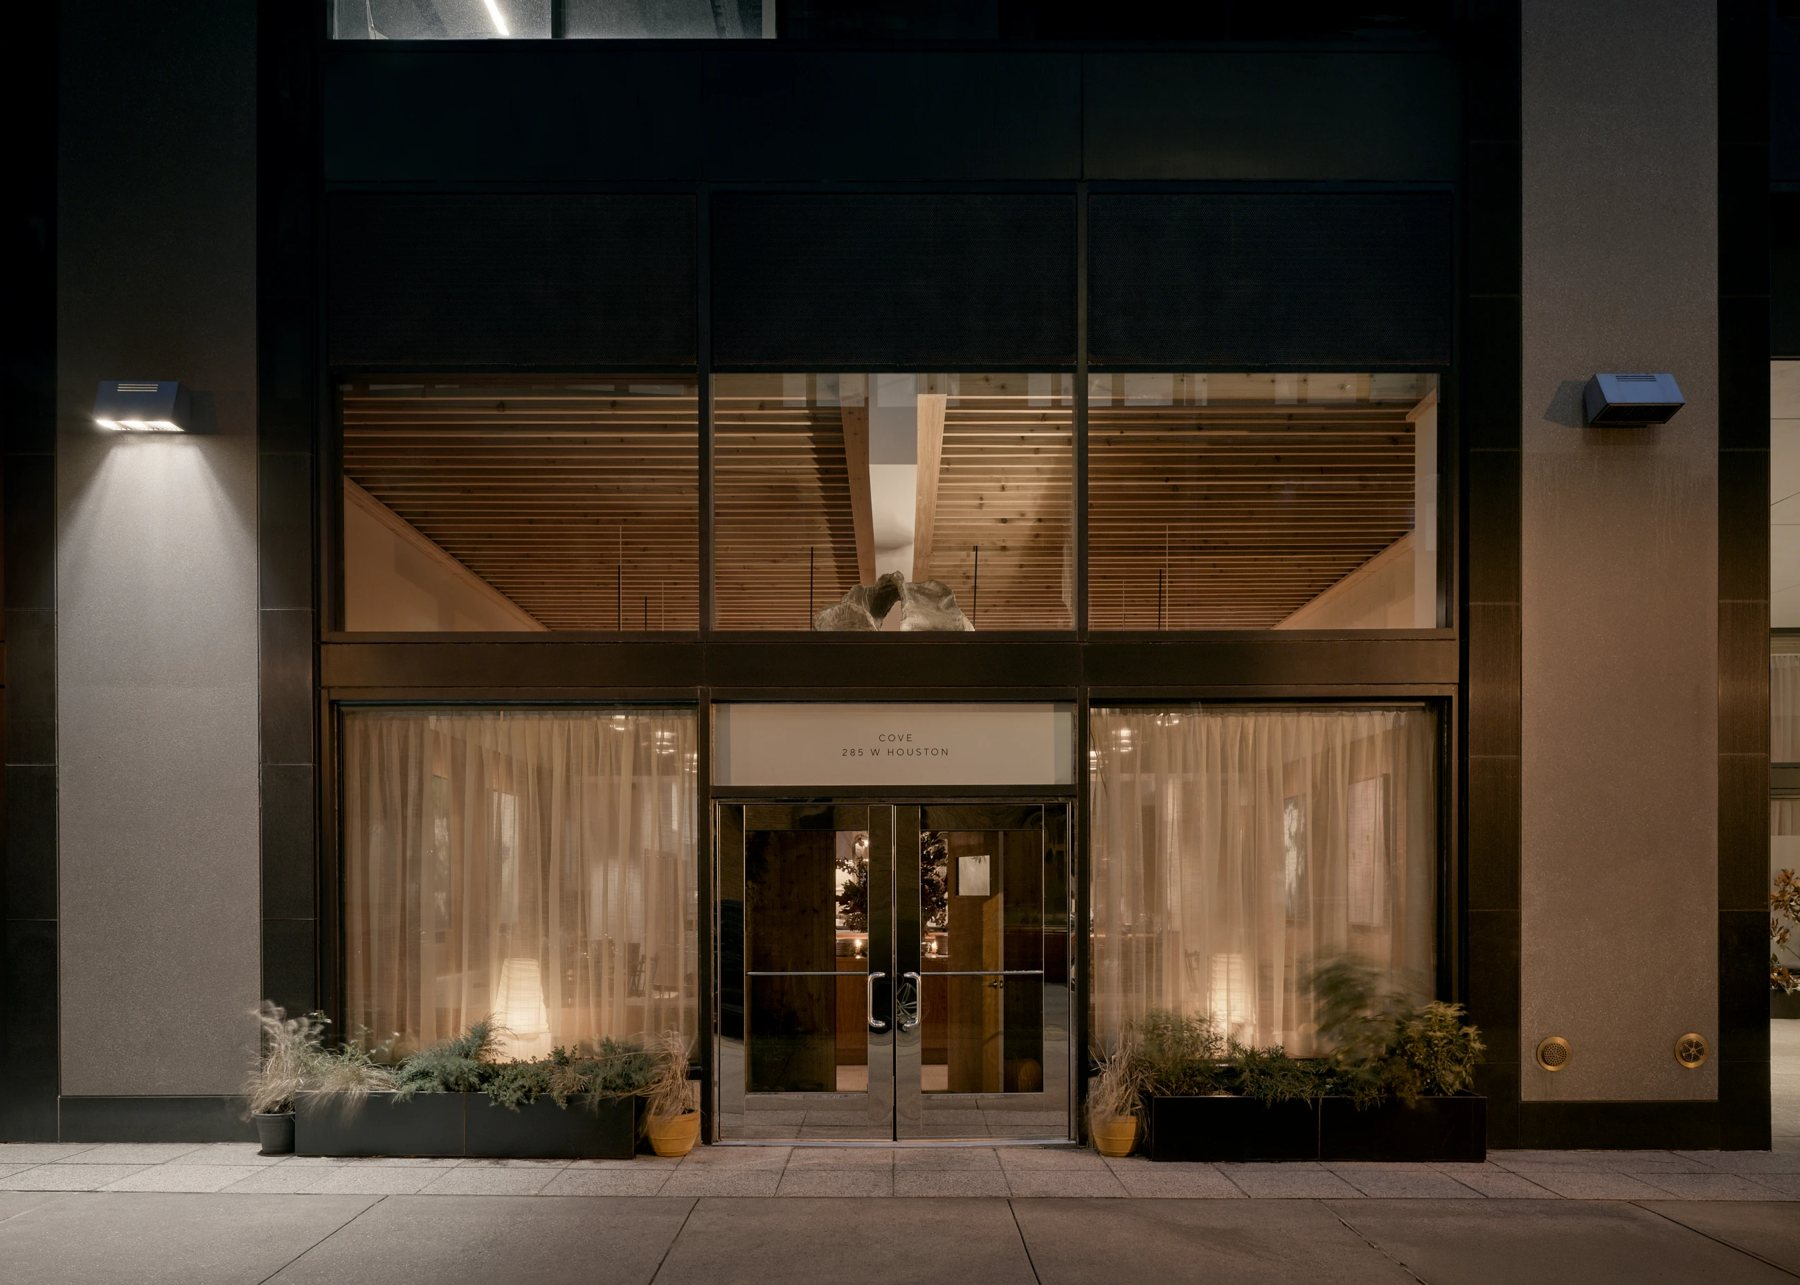
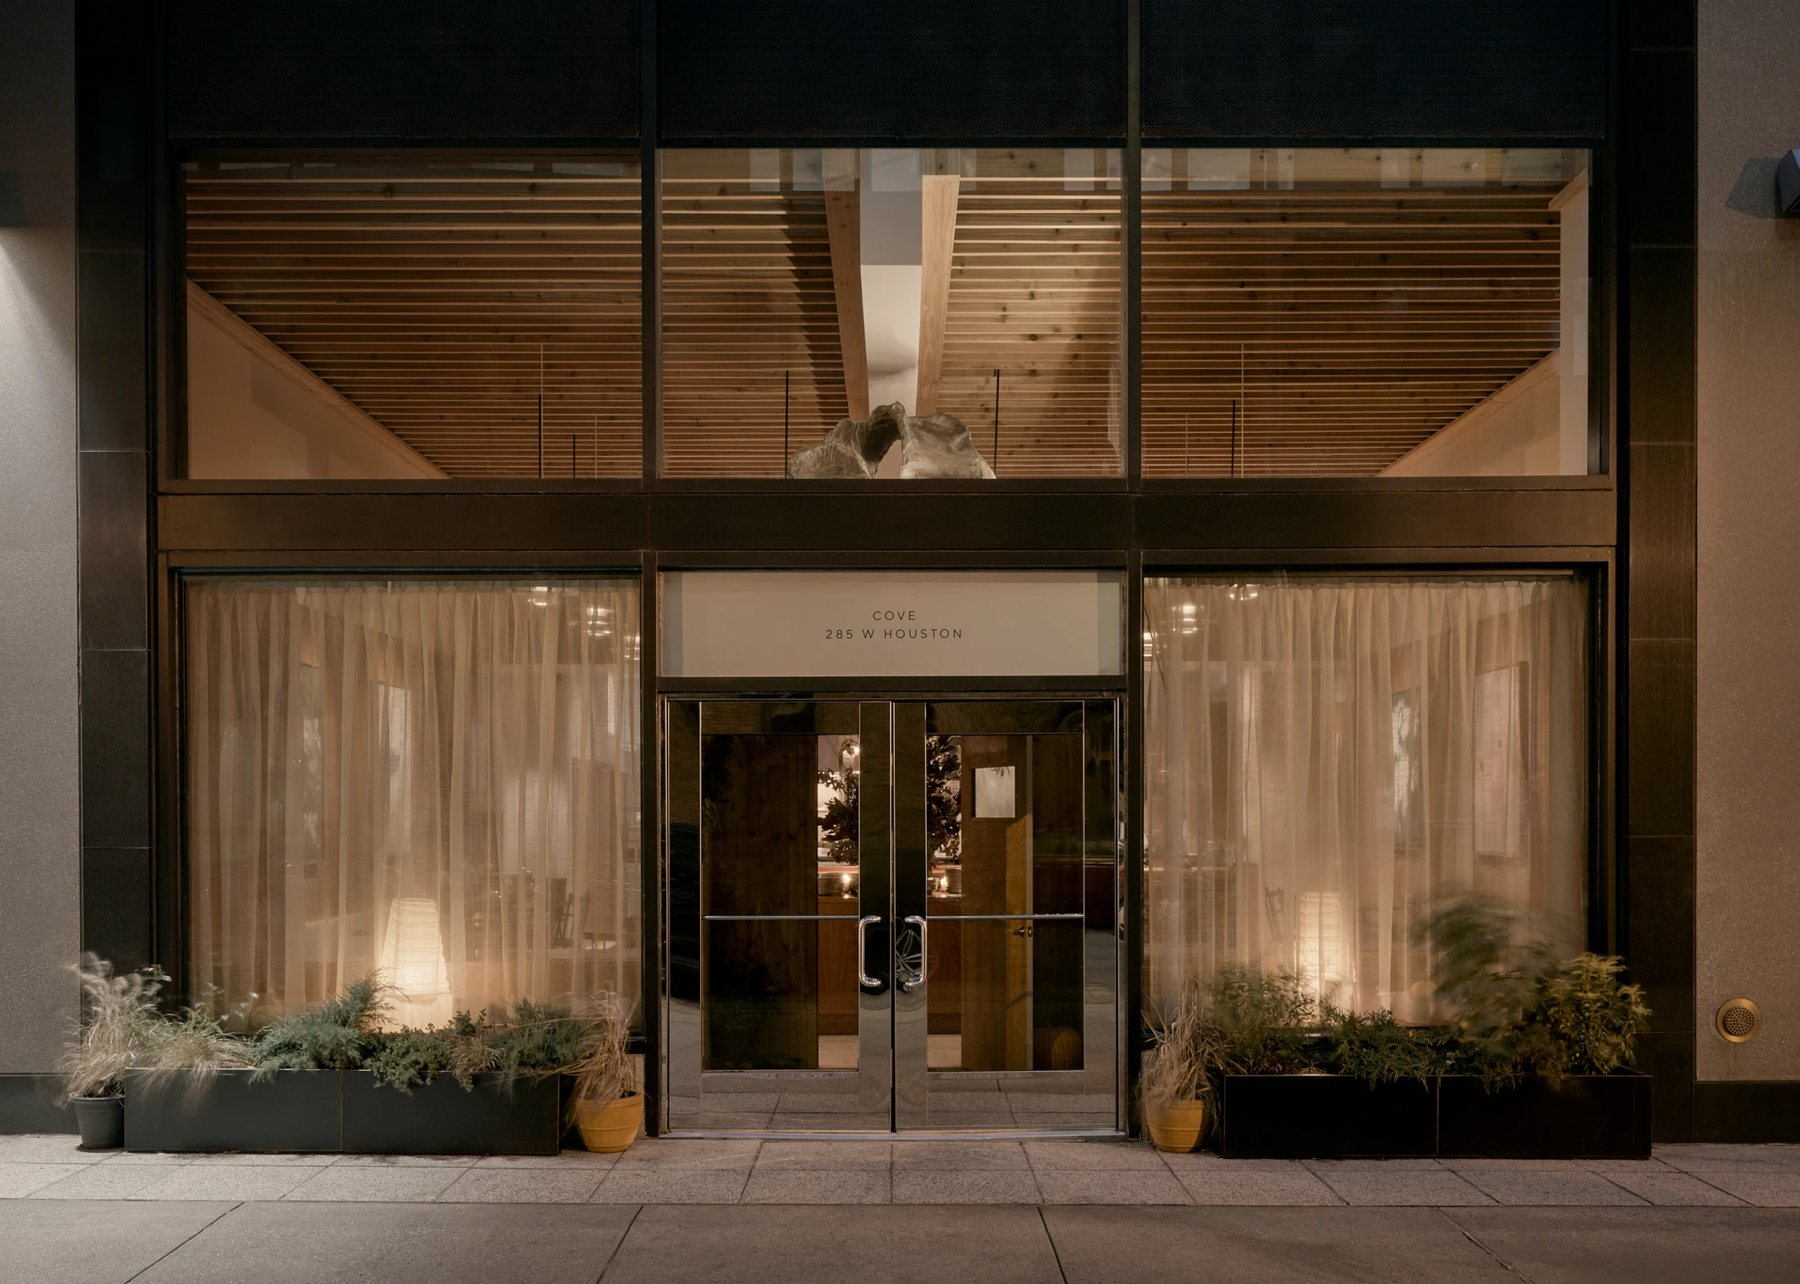
270 Hennepin 2.0: opportunities copy, The Vibe pages and before/after renders
Let's Go summary and opportunities, mood board title and copy, new Invite,
Sky Deck, Conservatory, Cowork and Sky Lounge pages, Fitness and Lobby Lounge
renders, Theatre removed.

Claude-Session: https://claude.ai/code/session_01N4SV5PX1qoQcVKppkaUprV

diff --git a/270-hennepin-v2/index.html b/270-hennepin-v2/index.html
@@ -246,6 +246,7 @@
     .block .pl-line{font-size:17px;font-style:italic;color:var(--accent-dark);margin-bottom:14px;}
     .block .pl-list{list-style:none;margin:0 0 18px;}
     .block .pl-list li{position:relative;padding-left:18px;margin-bottom:9px;font-size:14.5px;line-height:1.45;}
+    .block .pl-list li b{font-weight:500;}
     .block .pl-list li::before{content:"—";position:absolute;left:0;color:var(--accent-dark);}
     .block .pl-sub{font-size:13.5px;opacity:.75;}
     .block .pl-sub b{font-weight:500;color:var(--ink);}
@@ -684,6 +685,7 @@
     .ba-six .ba-sm{aspect-ratio:3/4;}
     .ba-six .ba-sm:nth-child(1){grid-column:1;grid-row:1}.ba-six .ba-sm:nth-child(2){grid-column:2;grid-row:1}.ba-six .ba-sm:nth-child(3){grid-column:1;grid-row:2}.ba-six .ba-sm:nth-child(4){grid-column:2;grid-row:2}
     .ba-six .ba-big img{position:absolute;inset:0;}
+    .ba-six.ba-five{grid-template-columns:.75fr .75fr 4fr;}
     @media(max-width:860px){.ba-six{grid-template-columns:1fr 1fr;}.ba-six .ba-big{grid-column:auto!important;grid-row:auto!important;aspect-ratio:3/4;}}
     .ba-col{display:flex;flex-direction:column;gap:16px;}
     .ba-col .ig-tile{aspect-ratio:16/9;}
@@ -1054,24 +1056,25 @@
   <section class="section-white info" id="pod" style="min-height:100vh;display:flex;align-items:center">
     <div class="container">
       <div class="info-head">
-        <div><p class="eyebrow">The Quick Take</p><h2 class="section-title" style="max-width:44ch;font-size:clamp(22px,2.6vw,36px)">From the street, 270 Hennepin goes unnoticed. Inside, the spaces are nicely done, but they don't feel cheap, they just don't feel anything.</h2></div>
+        <div><p class="eyebrow">OK, Let's Go.</p><h2 class="section-title" style="max-width:44ch;font-size:clamp(22px,2.6vw,36px)">From the street, to the entry, to the spaces... the building is <em>nice but unnoticed</em>. Everything is new, nice and polished. It doesn't feel dated, off trend or cheap. <em>It just doesn't feel, anything.</em><br><br>The opportunity, as we know, is to give it a story – physical to mood – that writes a script, dresses it in a look and creates a feel.</h2></div>
       </div>
       <p class="b-label" style="margin-top:clamp(56px,7vw,100px)">Opportunities</p>
       <div class="pod" style="margin-top:20px">
         <div class="block">
           <ul class="pl-list">
-            <li>Opportunity 1 · to be written</li>
-            <li>Opportunity 2 · to be written</li>
-            <li>Opportunity 3 · to be written</li>
-            <li>Opportunity 4 · to be written</li>
+            <li><b>Street presence.</b> Announcing the building. A residence, for rent, available now, how to reach us. Signage that says here we are. Hello!</li>
+            <li><b>Sense of arrival.</b> Organic planting, vibrancy, bikes at the door and hospitality cues that call attention from the street.</li>
+            <li><b>The entry is chapter one.</b> A first impression that welcomes and sets the tone.</li>
+            <li><b>A lobby that's lived in.</b> The greeting, the scent, the sound, a coffee, a soft recline, other people and a reason to stay.</li>
+            <li><b>Amenities with a point of view.</b> Venture on and the style carries with you. One floor, everything on it. Pool, fitness and lounges styled as moments, not checklists.</li>
           </ul>
         </div>
         <div class="block">
           <ul class="pl-list">
-            <li>Opportunity 5 · to be written</li>
-            <li>Opportunity 6 · to be written</li>
-            <li>Opportunity 7 · to be written</li>
-            <li>Opportunity 8 · to be written</li>
+            <li><b>The details.</b> The sounds, the scents, the nuances. Books on the shelves, art in the hallway, games on the table. A night at the Marriott, or my home?</li>
+            <li><b>A material story.</b> Warm oak, linen, thick rugs, barefoot feels, soft seating, candles and vibe lighting, Nordic roots made modern.</li>
+            <li><b>Echoed in sound.</b> From a background playlist to a vinyl lounge, proper speakers that are seen as well as heard, and a B&amp;O soundbath in the yoga studio.</li>
+            <li><b>Considered art.</b> Framed photos, where the frames matter equally. Discreet but intentional pieces, many small but composed moments, authored and signed. Larger installations in larger spaces, like the garage.</li>
           </ul>
         </div>
       </div>
@@ -1101,8 +1104,8 @@
   <section class="section-black info instig" id="mood-board">
     <div class="container">
       <div class="info-head">
-        <div><p class="eyebrow">Concept 01 · Mood Board</p><h2 class="section-title">Design, Hygge, Furniture, Accents</h2></div>
-        <p class="lede">The material and mood world of the concept, on one page.</p>
+        <div><p class="eyebrow">Concept 01 · The Vibe</p><h2 class="section-title">Nordic Modern,<br>City Meets Hygge</h2></div>
+        <p class="lede">The Scandi influence of clean lines and calm moods. Natural woods and fabrics, warm light and soft layers. Modern yet welcoming, focused on small moments and thoughtful gatherings.</p>
       </div>
       <div class="ig-jrow" style="margin-top:72px">
         <div class="ig-tile" style="flex:1.333 1 0;aspect-ratio:1.333"><img src="assets/mood-09.jpg" alt=""><div class="brief">Mood · 09</div></div>
@@ -1127,7 +1130,7 @@
       <div class="ig-jrow">
         <div class="ig-tile" style="flex:1.0 1 0;aspect-ratio:1.0"><img src="assets/mood-15.jpg" alt=""><div class="brief">Mood · 15</div></div>
         <div class="ig-tile" style="flex:0.803 1 0;aspect-ratio:0.803"><img src="assets/mood-18.jpg" alt=""><div class="brief">Mood · 18</div></div>
-        <div class="ig-tile" style="flex:0.88 1 0;aspect-ratio:0.88"><img src="assets/mood-17.jpg" alt=""><div class="brief">Mood · 17</div></div>
+        <div class="ig-tile" style="flex:0.749 1 0;aspect-ratio:0.749"><img src="assets/mood-19.jpg" alt=""><div class="brief">Mood · 19</div></div>
         <div class="ig-tile" style="flex:1.0 1 0;aspect-ratio:1.0"><img src="assets/mood-16.jpg" alt=""><div class="brief">Mood · 16</div></div>
       </div>
     </div>
@@ -1140,8 +1143,7 @@
   <section class="section-black info instig" id="render-entry">
     <div class="container">
       <div class="info-head">
-        <div><p class="eyebrow">Rendered Spaces · 01</p><h2 class="section-title">The Entry</h2></div>
-        <p class="lede">Description to come.</p>
+        <div><p class="eyebrow">Concept 01 · The Vibe</p><h2 class="section-title">The Entry</h2></div>
       </div>
       <div class="ba-quad">
         <div class="ba-col">
@@ -1155,12 +1157,32 @@
   </section>
 
   <div class="gold-rule" style="padding:0"><div class="container"><span class="gr-line"></span></div></div>
+  <!-- ============================ RENDERED SPACE INVITE ============================ -->
+  <section class="section-black info instig" id="render-invite">
+    <div class="container">
+      <div class="info-head">
+        <div><p class="eyebrow">Concept 01 · The Vibe</p><h2 class="section-title">The Invite</h2></div>
+      </div>
+      <div style="margin-top:72px;display:flex;flex-direction:column;gap:14px">
+        <div class="ig-jrow">
+          <div class="ig-tile" style="flex:1.0 1 0;aspect-ratio:1.0"><img src="assets/scent-1.jpg" alt="A lit match, the first scent"><div class="brief">The scent · Le Labo Papyrus 20, the lit match</div></div>
+          <div class="ig-tile" style="flex:0.817 1 0;aspect-ratio:0.817"><img src="assets/invite-sound.jpg" alt="A B&amp;O speaker in a calm room"><div class="brief">The sound · B&amp;O, seen as well as heard</div></div>
+        </div>
+        <div class="ig-jrow">
+          <div class="ig-tile" style="flex:0.75 1 0;aspect-ratio:0.75"><img src="assets/barista-1.jpg" alt="A barista pouring latte art"><div class="brief">The pour · a flat white, made by hand</div></div>
+          <div class="ig-tile" style="flex:0.75 1 0;aspect-ratio:0.75"><img src="assets/barista-2.jpg" alt="A light-filled lobby coffee bar"><div class="brief">The bar · light, stone, the machine</div></div>
+          <div class="ig-tile" style="flex:0.75 1 0;aspect-ratio:0.75"><img src="assets/barista-3.jpg" alt="A concierge who is also the barista"><div class="brief">The hello · concierge and barista, the name remembered</div></div>
+        </div>
+      </div>
+    </div>
+  </section>
+
+  <div class="gold-rule" style="padding:0"><div class="container"><span class="gr-line"></span></div></div>
   <!-- ============================ RENDERED SPACE LOBBY LOUNGE ============================ -->
   <section class="section-black info instig" id="render-lounge">
     <div class="container">
       <div class="info-head">
-        <div><p class="eyebrow">Rendered Spaces · 02</p><h2 class="section-title">The Lobby Lounge</h2></div>
-        <p class="lede">Description to come.</p>
+        <div><p class="eyebrow">Concept 01 · The Vibe</p><h2 class="section-title">The Lobby Lounge</h2></div>
       </div>
       <div class="ba-six">
         <div class="ig-tile ba-sm"><img src="assets/render-lounge-before-1.jpg" alt="" style="object-position:center 55%"></div>
@@ -1177,6 +1199,11 @@
         <div class="ig-tile" style="flex:0.886 1 0;aspect-ratio:0.886"><img src="assets/render-lounge-after-c6.jpg" alt=""></div>
         <div class="ig-tile" style="flex:0.768 1 0;aspect-ratio:0.768"><img src="assets/render-lounge-after-c5.jpg" alt=""></div>
       </div>
+      <div class="ig-jrow" style="margin-top:16px">
+        <div class="ig-tile" style="flex:0.9 1 0;aspect-ratio:0.9"><img src="assets/render-lounge-after-v4.jpg" alt="Four bar wall options"><span class="ba-tag">After · Bar wall options</span></div>
+        <div class="ig-tile" style="flex:0.563 1 0;aspect-ratio:0.563"><img src="assets/render-lounge-after-bar.jpg" alt="The curved stone bar"><span class="ba-tag">After</span></div>
+        <div class="ig-tile" style="flex:0.563 1 0;aspect-ratio:0.563"><img src="assets/render-lounge-after-top.jpg" alt="The coffee bar from above"></div>
+      </div>
     </div>
   </section>
 
@@ -1185,8 +1212,7 @@
   <section class="section-black info instig" id="render-pool">
     <div class="container">
       <div class="info-head">
-        <div><p class="eyebrow">Rendered Spaces · 03</p><h2 class="section-title">The Pool</h2></div>
-        <p class="lede">Description to come.</p>
+        <div><p class="eyebrow">Concept 01 · The Vibe</p><h2 class="section-title">The Pool</h2></div>
       </div>
       <div class="ba-row">
         <div><div class="ig-tile"><img src="assets/render-pool-before.jpg" alt=""><div class="brief">Pool · before</div></div><p class="b-label">Before</p></div>
@@ -1201,31 +1227,49 @@
   </section>
 
   <div class="gold-rule" style="padding:0"><div class="container"><span class="gr-line"></span></div></div>
-  <!-- ============================ RENDERED SPACE FITNESS ============================ -->
-  <section class="section-black info instig" id="render-fitness">
+
+  <!-- ============================ RENDERED SPACE SKY DECK ============================ -->
+  <section class="section-black info instig" id="render-skydeck">
     <div class="container">
       <div class="info-head">
-        <div><p class="eyebrow">Rendered Spaces · 04</p><h2 class="section-title">Fitness</h2></div>
-        <p class="lede">Description to come.</p>
+        <div><p class="eyebrow">Concept 01 · The Vibe</p><h2 class="section-title">The Sky Deck</h2></div>
       </div>
       <div class="ba-row">
-        <div><div class="ig-tile"><img src="assets/render-fitness-before.jpg" alt=""><div class="brief">Fitness · before</div></div><p class="b-label">Before</p></div>
-        <div><div class="ig-tile"><img src="assets/render-fitness-after.jpg" alt=""><div class="brief">Fitness · after, rendered</div></div><p class="b-label">After</p></div>
+        <div><div class="ig-tile"><img src="assets/render-skydeck-before.jpg" alt=""><div class="brief">Sky Deck · before</div></div><p class="b-label">Before</p></div>
+        <div><div class="ig-tile"><img src="assets/render-skydeck-after.jpg" alt=""><div class="brief">Sky Deck · after, rendered</div></div><p class="b-label">After</p></div>
       </div>
     </div>
   </section>
 
   <div class="gold-rule" style="padding:0"><div class="container"><span class="gr-line"></span></div></div>
-  <!-- ============================ RENDERED SPACE LOBBY ============================ -->
-  <section class="section-black info instig" id="render-lobby">
+  <!-- ============================ RENDERED SPACE CONSERVATORY ============================ -->
+  <section class="section-black info instig" id="render-conservatory">
     <div class="container">
       <div class="info-head">
-        <div><p class="eyebrow">Rendered Spaces · 05</p><h2 class="section-title">The Lobby</h2></div>
-        <p class="lede">Description to come.</p>
+        <div><p class="eyebrow">Concept 01 · The Vibe</p><h2 class="section-title">The Conservatory</h2></div>
       </div>
       <div class="ba-row">
-        <div><div class="ig-tile"><img src="assets/render-lobby-before.jpg" alt=""><div class="brief">Lobby · before</div></div><p class="b-label">Before</p></div>
-        <div><div class="ig-tile"><img src="assets/render-lobby-after.jpg" alt=""><div class="brief">Lobby · after, rendered</div></div><p class="b-label">After</p></div>
+        <div><div class="ig-tile"><img src="assets/render-conservatory-before.jpg" alt=""><div class="brief">Conservatory · before</div></div><p class="b-label">Before</p></div>
+        <div><div class="ig-tile"><img src="assets/render-conservatory-after.jpg" alt=""><div class="brief">Conservatory · after, rendered</div></div><p class="b-label">After</p></div>
+      </div>
+      <div class="ig-tile" style="margin-top:16px;aspect-ratio:2"><img src="assets/render-conservatory-after-2.jpg" alt=""><span class="ba-tag">After</span></div>
+    </div>
+  </section>
+
+  <div class="gold-rule" style="padding:0"><div class="container"><span class="gr-line"></span></div></div>
+
+  <!-- ============================ RENDERED SPACE FITNESS ============================ -->
+  <section class="section-black info instig" id="render-fitness">
+    <div class="container">
+      <div class="info-head">
+        <div><p class="eyebrow">Concept 01 · The Vibe</p><h2 class="section-title">Fitness</h2></div>
+      </div>
+      <div class="ba-six ba-five">
+        <div class="ig-tile ba-sm"><img src="assets/render-fitness-before-1.jpg" alt="" style="object-position:center 62%"></div>
+        <div class="ig-tile ba-sm"><img src="assets/render-fitness-before-2.jpg" alt="" style="object-position:center 55%"></div>
+        <div class="ig-tile ba-sm"><img src="assets/render-fitness-before-3.jpg" alt="" style="object-position:center 60%"><span class="ba-tag">Before</span></div>
+        <div class="ig-tile ba-sm"><img src="assets/render-fitness-before-4.jpg" alt="" style="object-position:center 30%"></div>
+        <div class="ig-tile ba-big" style="grid-column:3;grid-row:1/3"><img src="assets/render-fitness-after.jpg" alt=""><div class="brief">Fitness · after, rendered</div><span class="ba-tag">After</span></div>
       </div>
     </div>
   </section>
@@ -1235,13 +1279,41 @@
   <section class="section-black info instig" id="render-arrival">
     <div class="container">
       <div class="info-head">
-        <div><p class="eyebrow">Rendered Spaces · 06</p><h2 class="section-title">The Arrival</h2></div>
-        <p class="lede">Description to come.</p>
+        <div><p class="eyebrow">Concept 01 · The Vibe</p><h2 class="section-title">The Cowork</h2></div>
       </div>
-      <div class="ba-row">
-        <div><div class="ig-tile"><img src="assets/render-arrival-before.jpg" alt=""><div class="brief">Arrival · before</div></div><p class="b-label">Before</p></div>
-        <div><div class="ig-tile"><img src="assets/render-arrival-after.jpg" alt=""><div class="brief">Arrival · after, rendered</div></div><p class="b-label">After</p></div>
+      <div class="ig-jrow" style="margin-top:72px">
+        <div class="ig-tile" style="flex:0.75 1 0;aspect-ratio:0.75"><img src="assets/render-cowork-before-1.jpg" alt=""><span class="ba-tag">Before</span></div>
+        <div class="ig-tile" style="flex:1.777 1 0;aspect-ratio:1.777"><img src="assets/render-cowork-before-2.jpg" alt=""></div>
+        <div class="ig-tile" style="flex:1.777 1 0;aspect-ratio:1.777"><img src="assets/render-cowork-before-3.jpg" alt=""></div>
       </div>
+      <div class="ig-tile" style="aspect-ratio:16/9;margin-top:16px"><img src="assets/render-cowork-after.jpg" alt=""><div class="brief">Cowork · after, rendered</div><span class="ba-tag">After</span></div>
+    </div>
+  </section>
+
+  <div class="gold-rule" style="padding:0"><div class="container"><span class="gr-line"></span></div></div>
+  <!-- ============================ RENDERED SPACE LOUNGE (SKY) ============================ -->
+  <section class="section-black info instig" id="render-lounge2">
+    <div class="container">
+      <div class="info-head">
+        <div><p class="eyebrow">Concept 01 · The Vibe</p><h2 class="section-title">Sky Lounge</h2></div>
+      </div>
+      <div class="ig-jrow" style="margin-top:72px">
+        <div class="ig-tile" style="flex:1.777 1 0;aspect-ratio:1.777"><img src="assets/render-skylounge-before-1.jpg" alt=""><span class="ba-tag">Before</span></div>
+        <div class="ig-tile" style="flex:0.75 1 0;aspect-ratio:0.75"><img src="assets/render-skylounge-before-4.jpg" alt=""></div>
+      </div>
+      <div class="ig-jrow">
+        <div class="ig-tile" style="flex:1.777 1 0;aspect-ratio:1.777"><img src="assets/render-skylounge-before-2.jpg" alt=""></div>
+        <div class="ig-tile" style="flex:1.777 1 0;aspect-ratio:1.777"><img src="assets/render-skylounge-before-3.jpg" alt=""></div>
+      </div>
+      <div class="ba-row" style="margin-top:16px">
+        <div class="ig-tile" style="aspect-ratio:16/9"><img src="assets/render-skylounge-after-3.jpg" alt=""><span class="ba-tag">After</span></div>
+        <div class="ig-tile" style="aspect-ratio:16/9"><img src="assets/render-skylounge-after.jpg" alt=""></div>
+      </div>
+      <div class="ba-row" style="margin-top:16px">
+        <div class="ig-tile" style="aspect-ratio:16/9"><img src="assets/render-skylounge-after-2.jpg" alt=""></div>
+        <div class="ig-tile" style="aspect-ratio:16/9"><img src="assets/render-skylounge-after-4.jpg" alt=""></div>
+      </div>
+      <div class="ig-tile" style="aspect-ratio:16/9;margin-top:16px"><img src="assets/render-skylounge-after-5.jpg" alt=""></div>
     </div>
   </section>
 
